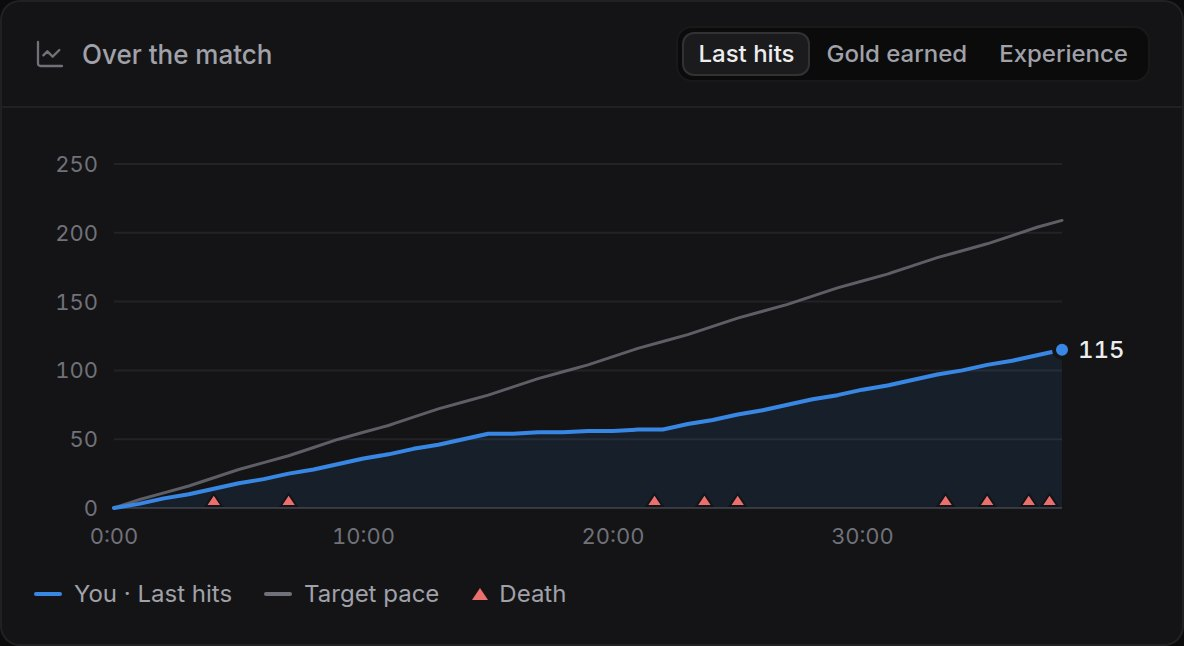
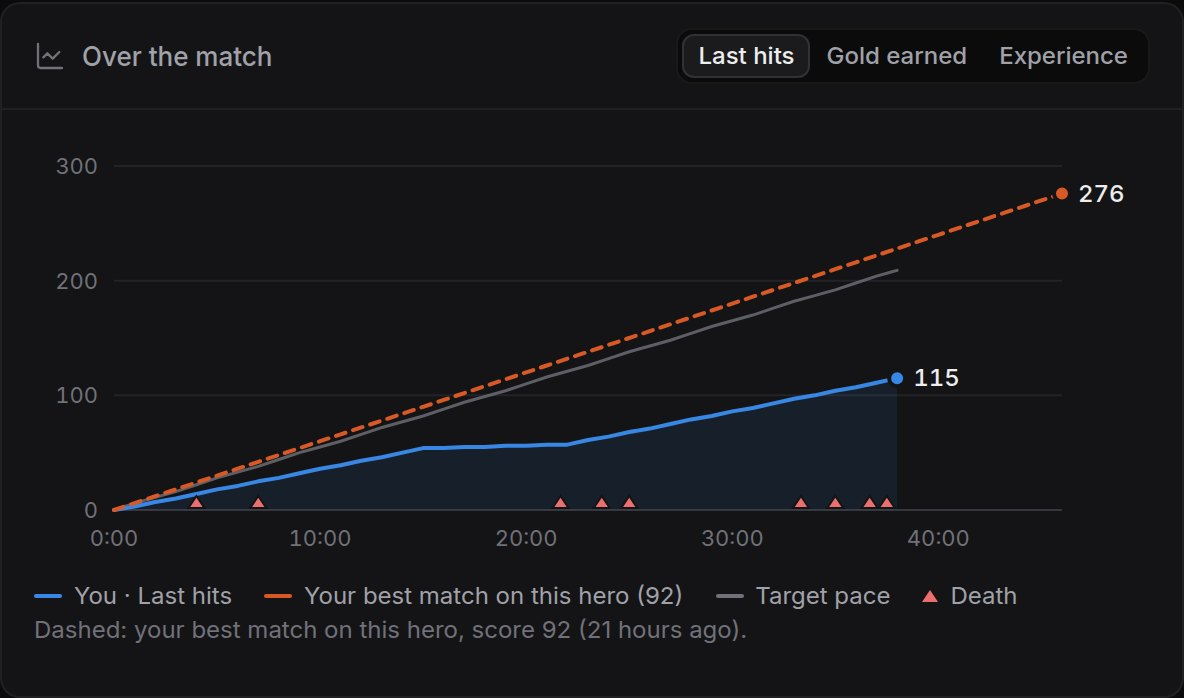
Release 0.29.0: new site pictures, notes, what's new, roadmap and docs
Claude-Session: https://claude.ai/code/session_01R8qFseNjtRCaUJVPRqFekm

diff --git a/site/en/index.html b/site/en/index.html
@@ -109,8 +109,8 @@
 
           <div class="hero-stage" aria-hidden="true">
             <figure class="win win-back win-game"><img src="../assets/game/ingame-en.jpg" data-game="ingame" alt="" width="1600" height="900" /></figure>
-            <figure class="win win-front"><img src="../assets/app/en/review-ai.jpg?v=6" data-img="review-ai" alt="" width="1600" height="1000" /></figure>
-            <img class="hero-card" src="../assets/overlay/en/lowhp.webp?v=6" data-ov="lowhp" alt="" width="756" />
+            <figure class="win win-front"><img src="../assets/app/en/review-ai.jpg?v=7" data-img="review-ai" alt="" width="1600" height="1000" /></figure>
+            <img class="hero-card" src="../assets/overlay/en/lowhp.webp?v=7" data-ov="lowhp" alt="" width="756" />
           </div>
         </div>
       </section>
@@ -124,32 +124,32 @@
           </header>
           <div class="tiles">
             <article class="tile">
-              <div class="tile-art" style="--bg: url(../assets/game/fight.jpg)"><img src="../assets/overlay/en/lowhp.webp?v=6" data-ov="lowhp" alt="Urgent advice: leave the wave and reset HP" loading="lazy" data-i18n-alt="lowhpAlt" /></div>
+              <div class="tile-art" style="--bg: url(../assets/game/fight.jpg)"><img src="../assets/overlay/en/lowhp.webp?v=7" data-ov="lowhp" alt="Urgent advice: leave the wave and reset HP" loading="lazy" data-i18n-alt="lowhpAlt" /></div>
               <h3 data-i18n="lowhpTitle">Low HP</h3>
               <p data-i18n="lowhpText">Urgent advice at once, while you can still get away. The rest comes with pauses so it never distracts.</p>
             </article>
             <article class="tile">
-              <div class="tile-art" style="--bg: url(../assets/game/base.jpg)"><img src="../assets/overlay/en/plan.webp?v=6" data-ov="plan" alt="Plan for this game on the overlay" loading="lazy" data-i18n-alt="planAlt" /></div>
+              <div class="tile-art" style="--bg: url(../assets/game/base.jpg)"><img src="../assets/overlay/en/plan.webp?v=7" data-ov="plan" alt="Plan for this game on the overlay" loading="lazy" data-i18n-alt="planAlt" /></div>
               <h3 data-i18n="planTitle">Plan for this game</h3>
               <p data-i18n="planText">From the pick to 1:30: last hits you need by 10:00, the key item and your recurring mistake.</p>
             </article>
             <article class="tile">
-              <div class="tile-art" style="--bg: url(../assets/game/forest.jpg)"><img src="../assets/overlay/en/farm.webp?v=6" data-ov="farm" alt="Farm advice with the last-hit pace" loading="lazy" data-i18n-alt="farmAlt" /></div>
+              <div class="tile-art" style="--bg: url(../assets/game/forest.jpg)"><img src="../assets/overlay/en/farm.webp?v=7" data-ov="farm" alt="Farm advice with the last-hit pace" loading="lazy" data-i18n-alt="farmAlt" /></div>
               <h3 data-i18n="farmTitle">Behind on farm</h3>
               <p data-i18n="farmText">With numbers: your last hits and a good pace for this minute.</p>
             </article>
             <article class="tile">
-              <div class="tile-art" style="--bg: url(../assets/game/hook.jpg)"><img src="../assets/overlay/en/tp.webp?v=6" data-ov="tp" alt="Reminder to carry a TP scroll" loading="lazy" data-i18n-alt="tpAlt" /></div>
+              <div class="tile-art" style="--bg: url(../assets/game/hook.jpg)"><img src="../assets/overlay/en/tp.webp?v=7" data-ov="tp" alt="Reminder to carry a TP scroll" loading="lazy" data-i18n-alt="tpAlt" /></div>
               <h3 data-i18n="tpTitle">TP scroll</h3>
               <p data-i18n="tpText">After minute 10 it reminds you when you have gone a minute without a TP: without it you cannot join a fight or save a tower.</p>
             </article>
             <article class="tile">
-              <div class="tile-art" style="--bg: url(../assets/game/dark.jpg)"><img src="../assets/overlay/en/spend.webp?v=6" data-ov="spend" alt="Advice to spend gold while dead" loading="lazy" data-i18n-alt="spendAlt" /></div>
+              <div class="tile-art" style="--bg: url(../assets/game/dark.jpg)"><img src="../assets/overlay/en/spend.webp?v=7" data-ov="spend" alt="Advice to spend gold while dead" loading="lazy" data-i18n-alt="spendAlt" /></div>
               <h3 data-i18n="spendTitle">Gold after death</h3>
               <p data-i18n="spendText">Died with spare gold? Buy parts of your next item right away. After minute 30 it keeps the buyback gold.</p>
             </article>
             <article class="tile">
-              <div class="tile-art" style="--bg: url(../assets/game/chrono.jpg)"><img src="../assets/overlay/en/timer.webp?v=6" data-ov="timer" alt="Map timer: the Tormentor in 15 seconds" loading="lazy" data-i18n-alt="timerAlt" /></div>
+              <div class="tile-art" style="--bg: url(../assets/game/chrono.jpg)"><img src="../assets/overlay/en/timer.webp?v=7" data-ov="timer" alt="Map timer: the Tormentor in 15 seconds" loading="lazy" data-i18n-alt="timerAlt" /></div>
               <h3 data-i18n="timerTitle">Map timers</h3>
               <p data-i18n="timerText">20 seconds ahead: runes, shrines, lotuses, the Tormentor. Stacks and wards for a support. The coach finds your role from your lane.</p>
             </article>
@@ -175,7 +175,7 @@
           </header>
           <div class="steps">
             <figure class="step">
-              <div class="step-shot"><img src="../assets/app/en/home.jpg?v=6" data-img="home" alt="The app sees the match: Juggernaut, 18:54" loading="lazy" data-i18n-alt="step1Alt" /></div>
+              <div class="step-shot"><img src="../assets/app/en/home.jpg?v=7" data-img="home" alt="The app sees the match: Juggernaut, 18:54" loading="lazy" data-i18n-alt="step1Alt" /></div>
               <figcaption data-i18n="step1">Start Dota — the coach sees the match by itself through Valve's official integration</figcaption>
             </figure>
             <figure class="step">
@@ -183,7 +183,7 @@
               <figcaption data-i18n="step2">Play: short advice shows over the game when you need it</figcaption>
             </figure>
             <figure class="step">
-              <div class="step-shot"><img src="../assets/app/en/review.jpg?v=6" data-img="review" alt="Match review" loading="lazy" data-i18n-alt="step3Alt" /></div>
+              <div class="step-shot"><img src="../assets/app/en/review.jpg?v=7" data-img="review" alt="Match review" loading="lazy" data-i18n-alt="step3Alt" /></div>
               <figcaption data-i18n="step3">After the match open the review: the score, your mistakes and what to do next game</figcaption>
             </figure>
           </div>
@@ -194,8 +194,8 @@
       <section class="section" id="review">
         <div class="wrap split">
           <div class="split-stage" aria-hidden="true">
-            <figure class="win win-a"><img src="../assets/app/en/review.jpg?v=6" data-img="review" alt="" loading="lazy" width="1600" height="1000" /></figure>
-            <figure class="win win-b"><img src="../assets/app/en/progress-ai.jpg?v=6" data-img="progress-ai" alt="" loading="lazy" width="1600" height="1000" /></figure>
+            <figure class="win win-a"><img src="../assets/app/en/review.jpg?v=7" data-img="review" alt="" loading="lazy" width="1600" height="1000" /></figure>
+            <figure class="win win-b"><img src="../assets/app/en/progress-ai.jpg?v=7" data-img="progress-ai" alt="" loading="lazy" width="1600" height="1000" /></figure>
           </div>
           <div class="split-copy">
             <h2 data-i18n="reviewTitle">Your personal coach after every match</h2>
@@ -224,15 +224,15 @@
           </header>
           <div class="steps">
             <figure class="step">
-              <div class="step-shot step-crop"><img src="../assets/shots/en/map.jpg?v=6" data-shot="map" alt="Match map with deaths and the hero&#x27;s path" loading="lazy" data-i18n-alt="mapAlt" /></div>
+              <div class="step-shot step-crop"><img src="../assets/shots/en/map.jpg?v=7" data-shot="map" alt="Match map with deaths and the hero&#x27;s path" loading="lazy" data-i18n-alt="mapAlt" /></div>
               <figcaption data-i18n="mapCap">Match map: where you went and where you died. Keep dying on the enemy half and it goes into the review</figcaption>
             </figure>
             <figure class="step">
-              <div class="step-shot step-crop"><img src="../assets/shots/en/build.jpg?v=6" data-shot="build" alt="Item timings with win rates" loading="lazy" data-i18n-alt="buildAlt" /></div>
+              <div class="step-shot step-crop"><img src="../assets/shots/en/build.jpg?v=7" data-shot="build" alt="Item timings with win rates" loading="lazy" data-i18n-alt="buildAlt" /></div>
               <figcaption data-i18n="buildCap">Build: win rate by purchase time for every item, and the pro build</figcaption>
             </figure>
             <figure class="step">
-              <div class="step-shot step-crop fit"><img src="../assets/shots/en/chart.jpg?v=6" data-shot="chart" alt="Last hits by minute against a good pace" loading="lazy" data-i18n-alt="chartAlt" /></div>
+              <div class="step-shot step-crop fit"><img src="../assets/shots/en/chart.jpg?v=7" data-shot="chart" alt="Last hits by minute against a good pace" loading="lazy" data-i18n-alt="chartAlt" /></div>
               <figcaption data-i18n="chartCap">Last hits, gold and experience by minute against a good pace, with your deaths on the chart</figcaption>
             </figure>
           </div>

diff --git a/site/index.html b/site/index.html
@@ -121,8 +121,8 @@
 
           <div class="hero-stage" aria-hidden="true">
             <figure class="win win-back win-game"><img src="assets/game/ingame-ru.jpg" data-game="ingame" alt="" width="1600" height="900" /></figure>
-            <figure class="win win-front"><img src="assets/app/ru/review-ai.jpg?v=6" data-img="review-ai" alt="" width="1600" height="1000" /></figure>
-            <img class="hero-card" src="assets/overlay/ru/lowhp.webp?v=6" data-ov="lowhp" alt="" width="756" />
+            <figure class="win win-front"><img src="assets/app/ru/review-ai.jpg?v=7" data-img="review-ai" alt="" width="1600" height="1000" /></figure>
+            <img class="hero-card" src="assets/overlay/ru/lowhp.webp?v=7" data-ov="lowhp" alt="" width="756" />
           </div>
         </div>
       </section>
@@ -136,32 +136,32 @@
           </header>
           <div class="tiles">
             <article class="tile">
-              <div class="tile-art" style="--bg: url(assets/game/fight.jpg)"><img src="assets/overlay/ru/lowhp.webp?v=6" data-ov="lowhp" alt="" loading="lazy" data-i18n-alt="lowhpAlt" /></div>
+              <div class="tile-art" style="--bg: url(assets/game/fight.jpg)"><img src="assets/overlay/ru/lowhp.webp?v=7" data-ov="lowhp" alt="" loading="lazy" data-i18n-alt="lowhpAlt" /></div>
               <h3 data-i18n="lowhpTitle">Мало HP</h3>
               <p data-i18n="lowhpText">Срочная подсказка сразу, пока ещё можно уйти. Остальные — с паузами, чтобы не отвлекать.</p>
             </article>
             <article class="tile">
-              <div class="tile-art" style="--bg: url(assets/game/base.jpg)"><img src="assets/overlay/ru/plan.webp?v=6" data-ov="plan" alt="" loading="lazy" data-i18n-alt="planAlt" /></div>
+              <div class="tile-art" style="--bg: url(assets/game/base.jpg)"><img src="assets/overlay/ru/plan.webp?v=7" data-ov="plan" alt="" loading="lazy" data-i18n-alt="planAlt" /></div>
               <h3 data-i18n="planTitle">План на игру</h3>
               <p data-i18n="planText">С пика до 1:30: сколько добиваний нужно к 10:00, ключевой предмет и твоя частая ошибка.</p>
             </article>
             <article class="tile">
-              <div class="tile-art" style="--bg: url(assets/game/forest.jpg)"><img src="assets/overlay/ru/farm.webp?v=6" data-ov="farm" alt="" loading="lazy" data-i18n-alt="farmAlt" /></div>
+              <div class="tile-art" style="--bg: url(assets/game/forest.jpg)"><img src="assets/overlay/ru/farm.webp?v=7" data-ov="farm" alt="" loading="lazy" data-i18n-alt="farmAlt" /></div>
               <h3 data-i18n="farmTitle">Отставание по фарму</h3>
               <p data-i18n="farmText">С цифрами: сколько добиваний у тебя и какой темп хороший на этой минуте.</p>
             </article>
             <article class="tile">
-              <div class="tile-art" style="--bg: url(assets/game/hook.jpg)"><img src="assets/overlay/ru/tp.webp?v=6" data-ov="tp" alt="" loading="lazy" data-i18n-alt="tpAlt" /></div>
+              <div class="tile-art" style="--bg: url(assets/game/hook.jpg)"><img src="assets/overlay/ru/tp.webp?v=7" data-ov="tp" alt="" loading="lazy" data-i18n-alt="tpAlt" /></div>
               <h3 data-i18n="tpTitle">Свиток телепортации</h3>
               <p data-i18n="tpText">После 10-й минуты напомнит, если ТП нет больше минуты: без него не успеть ни в драку, ни к башне.</p>
             </article>
             <article class="tile">
-              <div class="tile-art" style="--bg: url(assets/game/dark.jpg)"><img src="assets/overlay/ru/spend.webp?v=6" data-ov="spend" alt="" loading="lazy" data-i18n-alt="spendAlt" /></div>
+              <div class="tile-art" style="--bg: url(assets/game/dark.jpg)"><img src="assets/overlay/ru/spend.webp?v=7" data-ov="spend" alt="" loading="lazy" data-i18n-alt="spendAlt" /></div>
               <h3 data-i18n="spendTitle">Золото после смерти</h3>
               <p data-i18n="spendText">Умер с лишним золотом — сразу купи части следующего предмета. После 30-й минуты оставит на байбэк.</p>
             </article>
             <article class="tile">
-              <div class="tile-art" style="--bg: url(assets/game/chrono.jpg)"><img src="assets/overlay/ru/timer.webp?v=6" data-ov="timer" alt="" loading="lazy" data-i18n-alt="timerAlt" /></div>
+              <div class="tile-art" style="--bg: url(assets/game/chrono.jpg)"><img src="assets/overlay/ru/timer.webp?v=7" data-ov="timer" alt="" loading="lazy" data-i18n-alt="timerAlt" /></div>
               <h3 data-i18n="timerTitle">Таймеры карты</h3>
               <p data-i18n="timerText">За 20 секунд: руны, святилища, лотосы, Торментор. Саппорту — стаки и варды. Роль тренер поймёт по линии сам.</p>
             </article>
@@ -187,7 +187,7 @@
           </header>
           <div class="steps">
             <figure class="step">
-              <div class="step-shot"><img src="assets/app/ru/home.jpg?v=6" data-img="home" alt="" loading="lazy" data-i18n-alt="step1Alt" /></div>
+              <div class="step-shot"><img src="assets/app/ru/home.jpg?v=7" data-img="home" alt="" loading="lazy" data-i18n-alt="step1Alt" /></div>
               <figcaption data-i18n="step1">Запусти Доту — тренер увидит матч сам через официальную интеграцию Valve</figcaption>
             </figure>
             <figure class="step">
@@ -195,7 +195,7 @@
               <figcaption data-i18n="step2">Играй: короткая подсказка появится поверх игры, когда она нужна</figcaption>
             </figure>
             <figure class="step">
-              <div class="step-shot"><img src="assets/app/ru/review.jpg?v=6" data-img="review" alt="" loading="lazy" data-i18n-alt="step3Alt" /></div>
+              <div class="step-shot"><img src="assets/app/ru/review.jpg?v=7" data-img="review" alt="" loading="lazy" data-i18n-alt="step3Alt" /></div>
               <figcaption data-i18n="step3">После матча открой разбор: оценка, ошибки и что делать в следующей игре</figcaption>
             </figure>
           </div>
@@ -206,8 +206,8 @@
       <section class="section" id="review">
         <div class="wrap split">
           <div class="split-stage" aria-hidden="true">
-            <figure class="win win-a"><img src="assets/app/ru/review.jpg?v=6" data-img="review" alt="" loading="lazy" width="1600" height="1000" /></figure>
-            <figure class="win win-b"><img src="assets/app/ru/progress-ai.jpg?v=6" data-img="progress-ai" alt="" loading="lazy" width="1600" height="1000" /></figure>
+            <figure class="win win-a"><img src="assets/app/ru/review.jpg?v=7" data-img="review" alt="" loading="lazy" width="1600" height="1000" /></figure>
+            <figure class="win win-b"><img src="assets/app/ru/progress-ai.jpg?v=7" data-img="progress-ai" alt="" loading="lazy" width="1600" height="1000" /></figure>
           </div>
           <div class="split-copy">
             <h2 data-i18n="reviewTitle">Персональный тренер после матча</h2>
@@ -239,15 +239,15 @@
           </header>
           <div class="steps">
             <figure class="step">
-              <div class="step-shot step-crop"><img src="assets/shots/ru/map.jpg?v=6" data-shot="map" alt="" loading="lazy" data-i18n-alt="mapAlt" /></div>
+              <div class="step-shot step-crop"><img src="assets/shots/ru/map.jpg?v=7" data-shot="map" alt="" loading="lazy" data-i18n-alt="mapAlt" /></div>
               <figcaption data-i18n="mapCap">Карта матча: где ходил и где умирал. Часто гибнешь на половине врага — это попадёт в разбор</figcaption>
             </figure>
             <figure class="step">
-              <div class="step-shot step-crop"><img src="assets/shots/ru/build.jpg?v=6" data-shot="build" alt="" loading="lazy" data-i18n-alt="buildAlt" /></div>
+              <div class="step-shot step-crop"><img src="assets/shots/ru/build.jpg?v=7" data-shot="build" alt="" loading="lazy" data-i18n-alt="buildAlt" /></div>
               <figcaption data-i18n="buildCap">Сборка: процент побед по времени покупки каждого предмета и сборка про-игроков</figcaption>
             </figure>
             <figure class="step">
-              <div class="step-shot step-crop fit"><img src="assets/shots/ru/chart.jpg?v=6" data-shot="chart" alt="" loading="lazy" data-i18n-alt="chartAlt" /></div>
+              <div class="step-shot step-crop fit"><img src="assets/shots/ru/chart.jpg?v=7" data-shot="chart" alt="" loading="lazy" data-i18n-alt="chartAlt" /></div>
               <figcaption data-i18n="chartCap">Добивания, золото и опыт по минутам против хорошего темпа, со смертями на графике</figcaption>
             </figure>
           </div>

diff --git a/site/changelog.html b/site/changelog.html
@@ -98,6 +98,15 @@
       <article data-doc="ru" lang="ru">
         <h1>Что нового</h1>
         <p class="doc-updated">Все версии Wardly. Установленное приложение обновляется само, когда Дота закрыта.</p>
+<section class="release" id="v0.29.0">
+<h2><a href="#v0.29.0">Версия 0.29.0</a></h2>
+<ul>
+  <li><strong>Разбор матча короче.</strong> Сверху — «Главное на следующую игру», а остальные замечания и длинный список смертей теперь открываются кнопкой «Показать ещё». В сохранённом PDF по-прежнему все пункты.</li>
+  <li><strong>Понятнее подписи.</strong> Под каждой смертью написано, что за линия под ней («Здоровье за последние 20 с»), вместо «Ценность» — «Стоимость героя», а на «Прогрессе» объяснено, почему у некоторых матчей нет столбца с оценкой.</li>
+</ul>
+<p>Установщик пока без цифровой подписи: если Windows покажет «Windows защитил ваш компьютер», нажмите «Подробнее» → «Выполнить в любом случае». Установленная версия обновится сама, когда Дота будет закрыта.</p>
+<p class="release-link"><a href="https://github.com/makquella/dota-ai-coach/releases/tag/v0.29.0" rel="noopener">Скачать и подробности</a></p>
+</section>
 <section class="release" id="v0.28.0">
 <h2><a href="#v0.28.0">Версия 0.28.0</a></h2>
 <ul>
@@ -512,6 +521,14 @@
       <article data-doc="en" lang="en" hidden>
         <h1>What's new</h1>
         <p class="doc-updated">Every Wardly version. The installed app updates itself while Dota is closed.</p>
+<section class="release" id="v0.29.0">
+<h2><a href="#v0.29.0">Version 0.29.0</a></h2>
+<ul>
+  <li><strong>A shorter match review:</strong> «Main for the next game» stays on top; the other remarks and the long list of deaths open with «Show more». A saved PDF still has every item.</li>
+  <li><strong>Clearer labels:</strong> each death says what its line is («HP in the last 20 s»), and Progress explains why some matches have no score column.</li>
+</ul>
+<p class="release-link"><a href="https://github.com/makquella/dota-ai-coach/releases/tag/v0.29.0" rel="noopener">Download and details</a></p>
+</section>
 <section class="release" id="v0.28.0">
 <h2><a href="#v0.28.0">Version 0.28.0</a></h2>
 <ul>

diff --git a/frontend/launcher/renderer/app.js b/frontend/launcher/renderer/app.js
@@ -293,6 +293,10 @@ const I18N = {
     tourHint: "A short tour of the app, one minute",
     tourStart: "Show",
     whatsNew: {
+      "0.29.0": [
+        "The match review is shorter: past the three main points, the other remarks and the long list of deaths open with «Show more».",
+        "The health line under each death says what it is, and «Net worth» is named plainly."
+      ],
       "0.28.0": [
         "The first advice after a death names the lane or part of the map where you died, or how fast the kill came, instead of «plan a safer route».",
         "Supports: the «no save item» tip names the save item most bought on your hero and how much gold it still needs; the ward tip says where to put it (your lane's river, Roshan's pit, your own or the enemy jungle by the score).",
@@ -865,6 +869,10 @@ const I18N = {
     tourHint: "Короткая экскурсия по приложению, на минуту",
     tourStart: "Показать",
     whatsNew: {
+      "0.29.0": [
+        "Разбор матча стал короче: кроме трёх главных пунктов, остальные замечания и длинный список смертей открываются кнопкой «Показать ещё».",
+        "Под каждой смертью подписано, что это за линия здоровья, а «Ценность» теперь называется «Стоимость героя»."
+      ],
       "0.28.0": [
         "Первый совет после смерти называет линию или часть карты, где вы погибли, или как быстро вас убили — а не «продумайте более безопасный маршрут».",
         "Саппортам: подсказка «Нет спасающего предмета» называет предмет, который чаще всего берут на вашем герое, и сколько золота на него осталось; подсказка про вард говорит, куда его поставить (река у вашей линии, логово Рошана, свой или вражеский лес по счёту).",

diff --git a/site/app.js b/site/app.js
@@ -6,7 +6,7 @@
   const LANG_KEY = "dac.lang";
   const API = "https://api.luhovyimvp.dev";
   // Bump with every reshoot of the pictures (scripts/site-shots) and in index.html.
-  const SHOTS_VERSION = "6";
+  const SHOTS_VERSION = "7";
 
   const EN = Object.assign({}, window.WARDLY_EN || {}, {
     version: (v, mb) => `Version ${v} · Windows 10 and 11 · ${mb} MB`

diff --git a/backend/app/main.py b/backend/app/main.py
@@ -69,7 +69,7 @@ app = FastAPI(
     lifespan=_lifespan,
     title="Wardly",
     description="MVP-1: rule-based carry coach with local knowledge-base RAG.",
-    version="0.28.0",
+    version="0.29.0",
 )
 app.include_router(player_router)
 
@@ -103,7 +103,7 @@ if FRONTEND_DIR.exists():
 @app.get("/", summary="Health check")
 def root():
     """Simple health-check endpoint."""
-    return {"status": "ok", "service": "Wardly", "version": "0.28.0"}
+    return {"status": "ok", "service": "Wardly", "version": "0.29.0"}
 
 
 @app.get("/health", summary="Health check")

diff --git a/AGENTS.md b/AGENTS.md
@@ -252,7 +252,7 @@ One Electron app, **`frontend/launcher/`** (product name "Wardly" — formerly "
 - `discord-presence.js` — Discord Rich Presence (Application ID `1554093692971655250`, public; no bot or token): a small IPC client for the local Discord app (`discord-ipc-0..9` pipe/socket; frames int32 op + int32 length + JSON; handshake, `SET_ACTIVITY`, ping/pong, retry every 30 s while Discord is closed, the same activity sent once). `refreshDiscord` in main.js (from `refreshPresence` and live detail changes): Dota running → «В меню Dota 2», a match → «Матч на <герой>» with the timer started at the horn (`trackMatchStart`: no timer while the clock is negative, fixed once), nothing without Dota; large image asset key `wardly` (uploaded in the Discord developer portal), a button to the site. Switch `settings.discordPresence` (default on, «Статус в Discord» in Settings → App); off in `--smoke-test`. `timestamps.start` is in milliseconds. `getState()` / `onState` (idle | connecting | no_discord | connected | shown | rejected + Discord's error text, from the SET_ACTIVITY answer matched by nonce) → `status.discordState` → the line under the switch, so a player sees why nothing shows (Dota not running, Discord app closed, activity refused). Tested with a fake Discord socket in `test/discord-presence.test.js`.
 - `advice-stats.js` — «Помочь улучшить подсказки» (Settings → «Ещё настройки», `settings.shareStats`, off by default): `checkAdviceStats` in main.js (2 min after start, then every 30 min) sends yesterday once (`dueDay`, `settings.statsLastDay`; switching on or «delete my data» calls `startFrom`: `statsLastDay` = today's midnight and `statsSince` = that moment, the lower bound of the next upload, so nothing from before the consent or the delete is sent) — `buildStats` over backend `GET /player/usage?since=&until=` (`app/usage_stats.py`: analysed matches of the period, live advice per decision point and urgent advice followed by a death from `analysis.advice_counts` — the whole advice log, not the 40 cards the review shows) + overlay/voice/frequency/role/map timers/Discord status, AI/OpenDota key present, exclusive fullscreen that day (`settings.fullscreenSeenDay`), the sync error code; `uploadOutcome`: ok, 400/413 or the kill switch end the day, offline/429/5xx retry. «Что отправляется» shows `statsPreview` (today so far). Tests: `test/advice-stats.test.js`, `tests/test_usage_stats.py`, `services/api/test/stats.test.js`.
 - `discord-weekly.js` — «Неделя в Discord» (Settings → the collapsed «Ещё настройки», `#settings-more`, for rarely needed rows: statistics, the OpenDota key, the week in Discord): the player pastes a channel webhook link of their own server (`parseWebhookUrl`: discord.com / discordapp.com / ptb / canary `/api/webhooks/<id>/<token>` only, stored canonical in `settings.discordWebhook`, the panel sees `…<last 4>`); `checkDiscordWeekly` in main.js (90 s after start, then every 30 min) posts the calendar week that ended on local Monday 00:00 once (`dueWeek`, `settings.discordWeeklyLast`; connecting sets it to this Monday, so the first post comes next Monday; a month away → the last week only) from `GET /player/week?since=<the Monday before>&until=<that Monday>` (`weekQuery`; both ends, since a local week around a clock change is not 168 hours; `weekly_summary` leaves out later matches, the focus plan included, and adds `heroes`, top 3) as one embed (`buildWeeklyMessage`: games, W/L, average score vs the week before, heroes, best match, the most repeated finding, the focus; no nickname, Steam ID or match id; `allowed_mentions: {parse: []}`); a week with no matches posts nothing; offline/429/backend down retry at the next check, a deleted webhook (401/403/404) is noted (`settings.discordWeeklyStatus`) and disconnected (`postOutcome`), the panel says why. «Отправить сейчас» posts the last seven days. The webhook token, like the share delete tokens, is redacted from problem reports. Tests: `test/discord-weekly.test.js`.
-- `renderer/` + `preload.js` — control panel window, tabs «Главная / Матчи / Прогресс / Настройки». Layout: from 960 px wide the brand, tabs and service status are a fixed side navigation (`--sidebar-w`, pages up to `--content-max`, all `@media screen` at the end of `styles.css`; print and narrow windows keep the single column); from 1240 px Home (`.home-grid`: «Сейчас» and «Ваша неделя» on the left, what's new and «Последние матчи» on the right), a review and Progress (`twoColumns(main, side)` in matches.js → `.layout-2`) use two columns, Settings use two fixed columns (`.settings-grid`: never CSS `columns`, which move cards between columns when one grows, e.g. opening «Дополнительно») and the scoreboard teams sit side by side; `.col > *` has `min-width: 0` (a grid item's min-content would push a card under the next column). Every tab is split into zones: a page title (`pageHead` in matches.js, `.page-head` in index.html for Settings) and groups of cards under a small heading with a hint (`zone(title, hint, cards)` → `section.zone` with `.zone-head`; more room between zones than between cards; a zone whose cards are all hidden hides itself via `:has`); the zones per tab — Home: the summary card, Сейчас (while Dota runs) / Ваша неделя / Последние матчи; review: Что исправить / Как шёл матч / Оценки и сравнение / Карта и предметы / Составы; Progress: Итоги / Цели / Тренер / Матчи и герои / Сравнение / Ваш основной герой; Settings (rebuilt in 0.21 after player feedback that it was overwhelming: bigger text — `.setting-title` 15 px, hints 13 px in `--text-2` —, fewer visible buttons, every row says what it does in a player's words): В игре (the advice card; advice) / После матча (AI coach) on the left, Приложение (language, autostart, updates, Discord status) / Ваши матчи (transfer by code with numbered steps, a spare copy in a file) / Помощь (tour, report a problem — «save as a file» only inside its panel) and the folded «Ещё настройки» on the right. A card alone under its zone drops its own repeated title. «Ваша неделя» (`renderWeek`): W–L, the score against the week before or why there is nothing to compare (`score_note`), best match, and the score of every match of the week as columns (`weekly_summary` `matches`, oldest first; a click opens the review). Text functions go through `t(key, ...args)`: `t(key)(n)` calls the returned string and throws (a review stayed on its skeleton; `test/i18n.test.js` rejects the pattern, and `renderMatch` shows «Не удалось открыть матч» if drawing fails). The window opens at 1280×840 (at most 90 % of the screen) and remembers its size and maximized state (`settings.mainWindow`). «Последние матчи» (`refreshRecent`/`renderRecent`, the 6 newest rows of `/player/matches`) and the review header use `scoreRing` (the score as an arc in the grade's tone). `test/i18n.test.js` also fails on a key written twice in one text table (the later one silently wins). Home: one status line with a single action (e.g. «Дота не найдена» → «Указать папку Доты»), the first-run checklist, current match, recent advice (backend `GET /advice/recent`). Settings: «Оверлей» (on/off, position preset, move by hand), «Советы» (frequency, voice), «Приложение» (autostart, updates, problem report) and the collapsed «For developers» section with every other tool (backend, GSI config, live GSI, recordings, replay demos, Deep Review, logs). Texts live in the `I18N` table in `renderer/app.js` (ru/en: `settings.language` auto | ru | en from Settings → App, auto = system locale; `uiLocale()` in main decides it for the panel, the overlay, the tray and every backend `lang=` request, sent as `status.locale`); keep both languages in sync when adding strings.
+- `renderer/` + `preload.js` — control panel window, tabs «Главная / Матчи / Прогресс / Настройки». Layout: from 960 px wide the brand, tabs and service status are a fixed side navigation (`--sidebar-w`, pages up to `--content-max`, all `@media screen` at the end of `styles.css`; print and narrow windows keep the single column); from 1240 px Home (`.home-grid`: «Сейчас» and «Ваша неделя» on the left, what's new and «Последние матчи» on the right), a review and Progress (`twoColumns(main, side)` in matches.js → `.layout-2`) use two columns, Settings use two fixed columns (`.settings-grid`: never CSS `columns`, which move cards between columns when one grows, e.g. opening «Дополнительно») and the scoreboard teams sit side by side; `.col > *` has `min-width: 0` (a grid item's min-content would push a card under the next column). Every tab is split into zones: a page title (`pageHead` in matches.js, `.page-head` in index.html for Settings) and groups of cards under a small heading with a hint (`zone(title, hint, cards)` → `section.zone` with `.zone-head`; more room between zones than between cards; a zone whose cards are all hidden hides itself via `:has`); the zones per tab — Home: the summary card, Сейчас (while Dota runs) / Ваша неделя / Последние матчи; review: Что исправить / Как шёл матч / Оценки и сравнение / Карта и предметы / Составы; Progress: Итоги / Цели / Тренер / Матчи и герои / Сравнение / Ваш основной герой; Settings (rebuilt in 0.21 after player feedback that it was overwhelming: bigger text — `.setting-title` 15 px, hints 13 px in `--text-2` —, fewer visible buttons, every row says what it does in a player's words): В игре (the advice card; advice) / После матча (AI coach) on the left, Приложение (language, autostart, updates, Discord status) / Ваши матчи (transfer by code with numbered steps, a spare copy in a file) / Помощь (tour, report a problem — «save as a file» only inside its panel) and the folded «Ещё настройки» on the right. A card alone under its zone drops its own repeated title. Long lists fold (`foldList` in matches.js): «Что улучшить» after its first item and the deaths list after three show «Показать ещё N»; the rest is hidden only under `@media screen`, so a PDF keeps every item. «Ваша неделя» (`renderWeek`): W–L, the score against the week before or why there is nothing to compare (`score_note`), best match, and the score of every match of the week as columns (`weekly_summary` `matches`, oldest first; a click opens the review). Text functions go through `t(key, ...args)`: `t(key)(n)` calls the returned string and throws (a review stayed on its skeleton; `test/i18n.test.js` rejects the pattern, and `renderMatch` shows «Не удалось открыть матч» if drawing fails). The window opens at 1280×840 (at most 90 % of the screen) and remembers its size and maximized state (`settings.mainWindow`). «Последние матчи» (`refreshRecent`/`renderRecent`, the 6 newest rows of `/player/matches`) and the review header use `scoreRing` (the score as an arc in the grade's tone). `test/i18n.test.js` also fails on a key written twice in one text table (the later one silently wins). Home: one status line with a single action (e.g. «Дота не найдена» → «Указать папку Доты»), the first-run checklist, current match, recent advice (backend `GET /advice/recent`). Settings: «Оверлей» (on/off, position preset, move by hand), «Советы» (frequency, voice), «Приложение» (autostart, updates, problem report) and the collapsed «For developers» section with every other tool (backend, GSI config, live GSI, recordings, replay demos, Deep Review, logs). Texts live in the `I18N` table in `renderer/app.js` (ru/en: `settings.language` auto | ru | en from Settings → App, auto = system locale; `uiLocale()` in main decides it for the panel, the overlay, the tray and every backend `lang=` request, sent as `status.locale`); keep both languages in sync when adding strings.
 - Look: calm, neutral dark UI (no game theming, no neon, glow, gradients, glassmorphism or emoji). Design tokens live in `assets/ui/tokens.css` (colours, type scale 12/13/14/16/20/28, weights 400/500/600, 4px spacing, radii 6–10px, 120–180ms ease-out motion) and are shared by both windows — add tokens there instead of hard-coding values. One accent (`--accent`) for the primary action and active state only; `--ok/--warn/--error` only as small status dots. Font: Inter, bundled in `assets/fonts/` (OFL, no CDN — the app must work offline); numbers/timers use `tabular-nums`. Icons: Lucide subset vendored in `assets/icons/lucide.js` (`<i data-icon="name">` + `LucideIcons.hydrate()`); add an icon by copying its SVG body from `lucide-static`. Loading states are skeletons (no spinners); every control needs hover, focus-visible and disabled styles. Screenshots: `docs/screenshots/ui-v3/`.
 - `overlay-window.js` + `overlay-preload.js` + `overlay/` — transparent frameless always-on-top window; its renderer asks the main process for `/overlay/recommendation` (1000 ms) and never builds backend URLs. The window exists while the overlay is enabled; `setVisible()` decides whether it is on screen, and the always-on-top timer runs only while shown.
 - `overlay/voice.js` — optional spoken advice (`settings.overlay.voice`: `off | urgent | all`, the «Голос» row on Home): Chromium `speechSynthesis` with the system voices (Windows SAPI, offline), picks a local voice of the UI language, speaks only the action, once per advice; tips keep a 4 s gap and never talk over each other, urgent advice interrupts. It works in exclusive fullscreen, where the card cannot be drawn. Pure rules, tested in `test/voice.test.js`; loaded by the overlay and the control panel (voice check + sample).

diff --git a/docs/release-notes/v0.29.0.md b/docs/release-notes/v0.29.0.md
@@ -1,0 +1,12 @@
+## Что нового
+
+- **Разбор матча короче.** Сверху — «Главное на следующую игру», а остальные замечания и длинный список смертей теперь открываются кнопкой «Показать ещё». В сохранённом PDF по-прежнему все пункты.
+- **Понятнее подписи.** Под каждой смертью написано, что за линия под ней («Здоровье за последние 20 с»), вместо «Ценность» — «Стоимость героя», а на «Прогрессе» объяснено, почему у некоторых матчей нет столбца с оценкой.
+
+Установщик пока без цифровой подписи: если Windows покажет «Windows защитил ваш компьютер», нажмите «Подробнее» → «Выполнить в любом случае». Установленная версия обновится сама, когда Дота будет закрыта.
+
+---
+
+**In English:**
+- **A shorter match review:** «Main for the next game» stays on top; the other remarks and the long list of deaths open with «Show more». A saved PDF still has every item.
+- **Clearer labels:** each death says what its line is («HP in the last 20 s»), and Progress explains why some matches have no score column.

diff --git a/docs/ROADMAP.md b/docs/ROADMAP.md
@@ -161,7 +161,15 @@ last M minutes» / «N deaths this game», когда место смертей 
 разнице в счёте 8+); линия ниже темпа — цифры вместо «сместитесь в безопасную часть линии»
 (`laning_coach._pace_numbers`), половина темпа после 20:00 — как догонять.
 
-**Дальше (0.29):** пройтись с новичками по разбору и «Прогрессу».
+## 0.29 — разбор для новичка
+
+**Сделано в 0.29.0:** по скриншотам разбора и «Прогресса» глазами новичка: «Что улучшить»
+и список смертей свёрнуты после главного (`foldList` в matches.js: «Показать ещё N», скрыто
+только на экране — PDF со всеми пунктами), подпись под линией здоровья смерти, «Стоимость
+героя» вместо «Ценность», «Матчей с картой: N» вместо «Последние 1 матч», пояснение к
+пустым столбцам оценки; картинки сайта пересняты.
+
+**Дальше (0.30):** живые подсказки по реальной записи матча (таланты, ультимейт в GSI).
 
 ## 0.21 — приложение для игрока, а не для программиста
 
